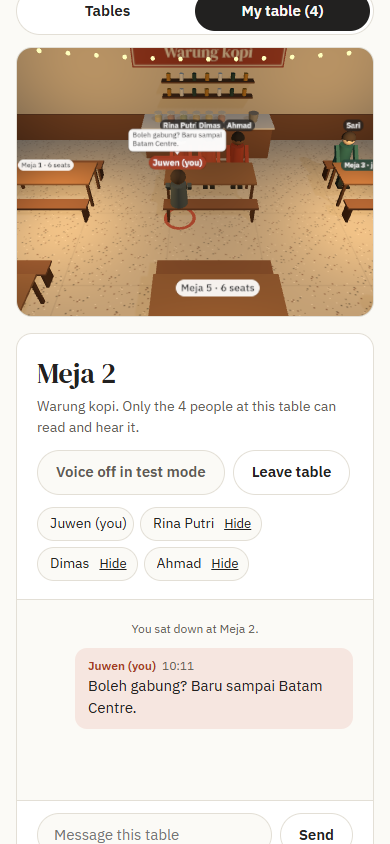
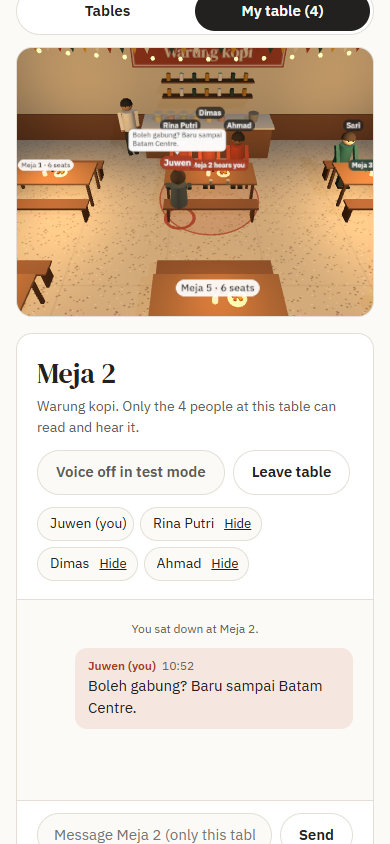
hone r1: privacy zone on your table, tabletop props, menu board, bunting, owner, warm table lights

diff --git a/world.js b/world.js
@@ -407,10 +407,90 @@ function buildTable(t) {
       group.add(cyl(0.18, 0.2, 0.03, "#2a2a28", s.x, 0.015, s.z, 16));
     });
   }
+  addTabletop(group, t);
   group.traverse((node) => {
     node.userData.table = t.n;
   });
   return group;
+}
+
+// Cups, a condiment set, a plate of gorengan and a small jar lamp, so tables look used.
+const TABLE_TOP = { round: 0.79, long: 0.775, square: 0.775, plastic: 0.57, low: 0.345, bar: 1.045 };
+function addTabletop(group, t) {
+  const top = TABLE_TOP[t.kind];
+  const seed = hash("top" + t.n);
+  const cups = t.kind === "bar" ? t.seatsPos.filter((_, i) => (seed >> i) & 1) : t.seatsPos.filter((_, i) => ((seed >> i) & 3) === 0).slice(0, 3);
+  for (const s of cups) {
+    const k = t.kind === "bar" ? 0.55 : 0.45;
+    const cx = t.kind === "bar" ? s.x : s.x + (t.x - s.x) * k;
+    const cz = t.kind === "bar" ? t.z + 0.2 : s.z + (t.z - s.z) * k;
+    group.add(cyl(0.045, 0.038, 0.11, "#e8eef0", cx, top + 0.055, cz, 12, { transparent: true, opacity: 0.55, roughness: 0.1 }));
+    group.add(cyl(0.04, 0.035, 0.07, t.kind === "low" ? "#c58b2a" : "#3b2416", cx, top + 0.04, cz, 12));
+  }
+  if (t.kind !== "bar") {
+    // condiment set: kecap bottle, sambal jar, toothpick pot
+    group.add(cyl(0.025, 0.03, 0.16, "#2a1d16", t.x + 0.08, top + 0.08, t.z - 0.06, 10));
+    group.add(cyl(0.035, 0.035, 0.07, "#a63d24", t.x - 0.02, top + 0.035, t.z - 0.1, 10));
+    group.add(cyl(0.022, 0.022, 0.06, "#c9b48a", t.x - 0.1, top + 0.03, t.z - 0.04, 8));
+    // jar lamp, glows at night
+    const glass = cyl(0.05, 0.05, 0.1, "#fff3d6", t.x - 0.04, top + 0.05, t.z + 0.1, 12, { emissive: "#ffc46b", emissiveIntensity: 0.4, transparent: true, opacity: 0.9 });
+    glass.castShadow = false;
+    glass.userData.lamp = true;
+    group.add(glass);
+  }
+  if (t.kind === "long" || t.kind === "square") {
+    // plate of gorengan
+    group.add(cyl(0.16, 0.13, 0.02, "#f1efe9", t.x + 0.32, top + 0.01, t.z + 0.05, 20));
+    for (let i = 0; i < 4; i++) {
+      const piece = box(0.09, 0.035, 0.05, i % 2 ? "#c58b2a" : "#b5652e", t.x + 0.28 + (i % 2) * 0.08, top + 0.035 + Math.floor(i / 2) * 0.02, t.z + 0.02 + Math.floor(i / 2) * 0.05);
+      piece.rotation.y = i * 0.7;
+      group.add(piece);
+    }
+  }
+}
+
+const MENUS = {
+  warkop: ["Kopi tubruk", "Kopi susu", "Teh manis", "Gorengan", "Indomie"],
+  angkringan: ["Wedang jahe", "Kopi joss", "Nasi kucing", "Sate usus", "Teh nasgitel"],
+  kafe: ["Es kopi susu", "Americano", "Teh tarik", "Roti bakar"],
+  kopitiam: ["Kopi O", "Kopi C", "Teh tarik", "Kaya toast", "Half-boiled eggs"],
+  mamak: ["Teh tarik", "Roti canai", "Maggi goreng", "Milo ais"],
+  hawker: ["Kopi", "Teh", "Chicken rice", "Char kway teow"],
+  kissaten: ["Blend coffee", "Hand drip", "Toast", "Pudding"],
+  izakaya: ["Highball", "Edamame", "Yakitori", "Karaage"],
+  streetfood: ["Cha yen", "Pad kra pao", "Moo ping", "Mango sticky rice"],
+  pub: ["Pint", "Lemon squash", "Chips", "Pie"],
+};
+
+function menuTexture(venue) {
+  const lines = MENUS[venue.id] || ["Kopi", "Teh", "Snacks"];
+  return canvasTexture(512, 640, (c, w, h) => {
+    c.fillStyle = "#24372f";
+    c.fillRect(0, 0, w, h);
+    c.strokeStyle = "#8a5a3b";
+    c.lineWidth = 22;
+    c.strokeRect(0, 0, w, h);
+    c.fillStyle = "#f4efe6";
+    c.textAlign = "center";
+    c.font = `64px ${SERIF}`;
+    c.fillText("Menu", w / 2, 110);
+    c.font = `500 40px ${FONT}`;
+    lines.forEach((line, i) => c.fillText(line, w / 2, 200 + i * 78));
+  });
+}
+
+function bunting(group, x0, x1, y, z) {
+  const colors = ["#a63d24", "#2d4a3e", "#d9a62e", "#f4efe6"];
+  const count = Math.floor((x1 - x0) / 0.32);
+  for (let i = 0; i < count; i++) {
+    const x = x0 + (i + 0.5) * ((x1 - x0) / count);
+    const sag = Math.sin(((i + 0.5) / count) * Math.PI) * 0.18;
+    const flag = new THREE.Mesh(new THREE.ConeGeometry(0.1, 0.22, 3), mat(colors[i % colors.length], { side: THREE.DoubleSide }));
+    flag.position.set(x, y - sag - 0.11, z);
+    flag.rotation.x = Math.PI;
+    flag.scale.z = 0.15;
+    group.add(flag);
+  }
 }
 
 function plant(x, z, scale = 1) {
@@ -496,6 +576,10 @@ function buildPlace(plan, venue) {
   const sign = new THREE.Mesh(new THREE.PlaneGeometry(4.2, 0.82), new THREE.MeshStandardMaterial({ map: signTexture(venue.name, layout), roughness: 0.7 }));
   sign.position.set(0, 2.75, backZ + 0.03);
   group.add(sign);
+  const menu = new THREE.Mesh(new THREE.PlaneGeometry(0.9, 1.12), new THREE.MeshStandardMaterial({ map: menuTexture(venue), roughness: 0.9 }));
+  menu.position.set(width / 2 - 1.15, 1.75, backZ + 0.03);
+  group.add(menu);
+  bunting(group, -width / 2 + 0.3, width / 2 - 0.3, 3.15, backZ + 0.25);
   if (layout !== "counter") {
     const cz = backZ + 0.7;
     if (layout === "mat" || layout === "street") {
@@ -590,6 +674,27 @@ function buildPlace(plan, venue) {
   for (const t of plan.tables) {
     group.add(buildTable(t));
   }
+  group.traverse((node) => {
+    if (node.userData.lamp) {
+      lamps.push(node);
+    }
+  });
+
+  // the owner minds the counter (no name tag, not a player)
+  const ownerLooks = { skin: "#b98a68", shirt: layout === "counter" ? "#2a2a28" : "#f1efe9", pants: "#3b3a38", hair: "#222120" };
+  const owner = makeAvatar(ownerLooks, "", false);
+  owner.root.remove(owner.label);
+  owner.label.material.map?.dispose();
+  poseStanding(owner, 0, false);
+  owner.arms[0].rotation.x = -0.5;
+  if (layout === "counter") {
+    owner.root.position.set(-1.2, 0, backZ + 0.4);
+  } else {
+    const halfCounter = layout === "mat" || layout === "street" ? 1.1 : layout === "garden" ? 1.7 : 1.8;
+    owner.root.position.set(-(halfCounter + 0.45), 0, backZ + 0.75);
+    owner.root.rotation.y = 0.35;
+  }
+  group.add(owner.root);
   return { group, lamps };
 }
 
@@ -640,7 +745,7 @@ function makeAvatar(looks, name, isMe) {
   ring.visible = isMe;
   root.add(ring);
 
-  const label = textSprite(isMe ? `${name} (you)` : name, isMe ? { background: "rgba(166,61,36,0.92)" } : {});
+  const label = textSprite(name, isMe ? { background: "rgba(166,61,36,0.95)" } : {});
   label.position.y = 1.95;
   root.add(label);
 
@@ -712,6 +817,8 @@ export function createWorld(container, handlers = {}) {
     night.push(light);
   }
 
+  let tableLights = [];
+
   const avatarsGroup = new THREE.Group();
   scene.add(avatarsGroup);
   const marker = mesh(new THREE.RingGeometry(0.16, 0.24, 24), new THREE.MeshBasicMaterial({ color: ACCENT, transparent: true, opacity: 0, side: THREE.DoubleSide }), 0, 0.03, 0, false);
@@ -761,6 +868,9 @@ export function createWorld(container, handlers = {}) {
     lamps.forEach((lamp) => {
       lamp.material.emissiveIntensity = isNight ? 2.2 : dusk ? 1.4 : 0.6;
     });
+    tableLights.forEach((light) => {
+      light.intensity = isNight ? 3.2 : dusk ? 1.6 : 0;
+    });
     renderer.toneMappingExposure = 1;
   }
 
@@ -772,7 +882,7 @@ export function createWorld(container, handlers = {}) {
   function tableLabelText(t, sitters, mineHere) {
     const free = t.seats - sitters;
     const dot = "\u00b7";
-    return mineHere ? `${t.label} ${dot} you` : free <= 0 ? `${t.label} ${dot} full` : sitters ? `${t.label} ${dot} join, ${free} free` : `${t.label} ${dot} ${t.seats} seats`;
+    return mineHere ? `Only ${t.label} hears you` : free <= 0 ? `${t.label} ${dot} full` : sitters ? `${t.label} ${dot} ${free} free` : `${t.label} ${dot} ${t.seats} seats`;
   }
 
   function setVenue({ layout, tables, tableWord, venue, spawn }) {
@@ -804,6 +914,13 @@ export function createWorld(container, handlers = {}) {
     night[0].position.set(-plan.width / 4, 2.4, -plan.depth / 6);
     night[1].position.set(plan.width / 4, 2.4, -plan.depth / 6);
     night[2].position.set(0, 2.4, plan.depth / 4);
+    tableLights.forEach((light) => scene.remove(light));
+    tableLights = plan.tables.slice(0, 6).map((t) => {
+      const light = new THREE.PointLight("#ffbf75", 0, 3.6, 1.8);
+      light.position.set(t.x, (TABLE_TOP[t.kind] || 0.75) + 0.9, t.z);
+      scene.add(light);
+      return light;
+    });
 
     const start = spawn || plan.spawn;
     me.x = start.x + (Math.random() - 0.5) * 1.6;
@@ -821,10 +938,38 @@ export function createWorld(container, handlers = {}) {
     moveDirty = true;
   }
 
+  // A warm circle on the floor around my table: the table's private zone.
+  const zone = new THREE.Group();
+  const zoneFill = mesh(new THREE.CircleGeometry(1, 48), new THREE.MeshBasicMaterial({ color: ACCENT, transparent: true, opacity: 0.16, depthWrite: false }), 0, 0.012, 0, false);
+  const zoneEdge = mesh(new THREE.RingGeometry(0.97, 1, 64), new THREE.MeshBasicMaterial({ color: ACCENT, transparent: true, opacity: 0.75, depthWrite: false, side: THREE.DoubleSide }), 0, 0.014, 0, false);
+  zoneFill.rotation.x = -Math.PI / 2;
+  zoneEdge.rotation.x = -Math.PI / 2;
+  zone.add(zoneFill, zoneEdge);
+  zone.visible = false;
+  scene.add(zone);
+
+  function placeZone(tableNo) {
+    const t = plan?.tables.find((x) => x.n === tableNo);
+    if (!t) {
+      zone.visible = false;
+      return;
+    }
+    const xs = t.seatsPos.map((s) => s.x).concat(t.x);
+    const zs = t.seatsPos.map((s) => s.z).concat(t.z);
+    const cx = (Math.min(...xs) + Math.max(...xs)) / 2;
+    const cz = (Math.min(...zs) + Math.max(...zs)) / 2;
+    const rx = (Math.max(...xs) - Math.min(...xs)) / 2 + 0.55;
+    const rz = (Math.max(...zs) - Math.min(...zs)) / 2 + 0.55;
+    zone.position.set(cx, 0, cz);
+    zone.scale.set(rx, 1, rz);
+    zone.visible = true;
+  }
+
   function updateTableLabels(occupancy, myTable) {
     if (!plan) {
       return;
     }
+    placeZone(myTable);
     for (const t of plan.tables) {
       const sitters = occupancy.get(t.n) || 0;
       const text = tableLabelText(t, sitters, myTable === t.n);
@@ -846,7 +991,7 @@ export function createWorld(container, handlers = {}) {
       sprite.position.set(t.x, t.kind === "bar" ? 1.3 : t.kind === "low" ? 0.6 : t.kind === "plastic" ? 0.8 : 1.0, t.kind === "bar" ? t.z + 0.1 : t.z);
       sprite.material.depthTest = false;
       sprite.renderOrder = 5;
-      sprite.visible = myTable !== t.n;
+      sprite.renderOrder = myTable === t.n ? 6 : 5;
       sprite.userData.table = t.n;
       scene.add(sprite);
       tableLabels.set(t.n, { sprite, text });
@@ -1223,6 +1368,47 @@ export function createWorld(container, handlers = {}) {
 
   // ---------- frame loop ----------
 
+  // Keep name tags from sitting on top of each other: push the farther one up in screen space.
+  const projected = new THREE.Vector3();
+  function separateLabels() {
+    const height = canvas.clientHeight || 1;
+    const width = canvas.clientWidth || 1;
+    const items = [];
+    for (const a of avatars.values()) {
+      const baseY = a.sitH != null ? a.sitH + 0.06 + 1.12 : 1.95;
+      projected.set(a.x, baseY, a.z);
+      const distance = camera.position.distanceTo(projected);
+      const worldPerPixel = (2 * distance * Math.tan((camera.fov * Math.PI) / 360)) / height;
+      projected.project(camera);
+      items.push({
+        a, baseY, worldPerPixel,
+        x: ((projected.x + 1) / 2) * width,
+        y: ((1 - projected.y) / 2) * height,
+        w: a.label.scale.x / worldPerPixel,
+        h: a.label.scale.y / worldPerPixel,
+        depth: distance,
+      });
+    }
+    items.sort((p, q) => p.depth - q.depth);
+    const placed = [];
+    for (const item of items) {
+      let lift = 0;
+      for (let guard = 0; guard < 6; guard++) {
+        const top = item.y - lift;
+        const hit = placed.find((o) => Math.abs(o.x - item.x) < (o.w + item.w) / 2 + 2 && Math.abs(o.top - top) < (o.h + item.h) / 2 + 1);
+        if (!hit) {
+          break;
+        }
+        lift = item.y - (hit.top - (hit.h + item.h) / 2 - 2);
+      }
+      placed.push({ x: item.x, top: item.y - lift, w: item.w, h: item.h });
+      item.a.label.position.y = item.baseY + lift * item.worldPerPixel;
+      if (item.a.bubble) {
+        item.a.bubble.position.y = item.a.label.position.y + 0.17 + (item.a.bubble.userData.lift || 0);
+      }
+    }
+  }
+
   const lookAt = new THREE.Vector3();
   function frame() {
     requestAnimationFrame(frame);
@@ -1260,6 +1446,7 @@ export function createWorld(container, handlers = {}) {
         }
       }
     }
+    separateLabels();
     marker.material.opacity = Math.max(0, marker.material.opacity - dt * 0.9);
 
     // Look a little ahead of me into the room, or at my table once I sit down.

diff --git a/app.js b/app.js
@@ -734,6 +734,7 @@ function renderPanel() {
   }
   const sitters = occupants(state.venue, state.seat.table);
   $("#tableTitle").textContent = tableName(state.seat.table);
+  $("#sayInput").placeholder = `Message ${tableName(state.seat.table)} (only this table sees it)`;
   const count = sitters.length;
   $("#tableSub").textContent = count === 1
     ? `${venue().name}. Nobody else yet. Share the link to bring a friend.`
